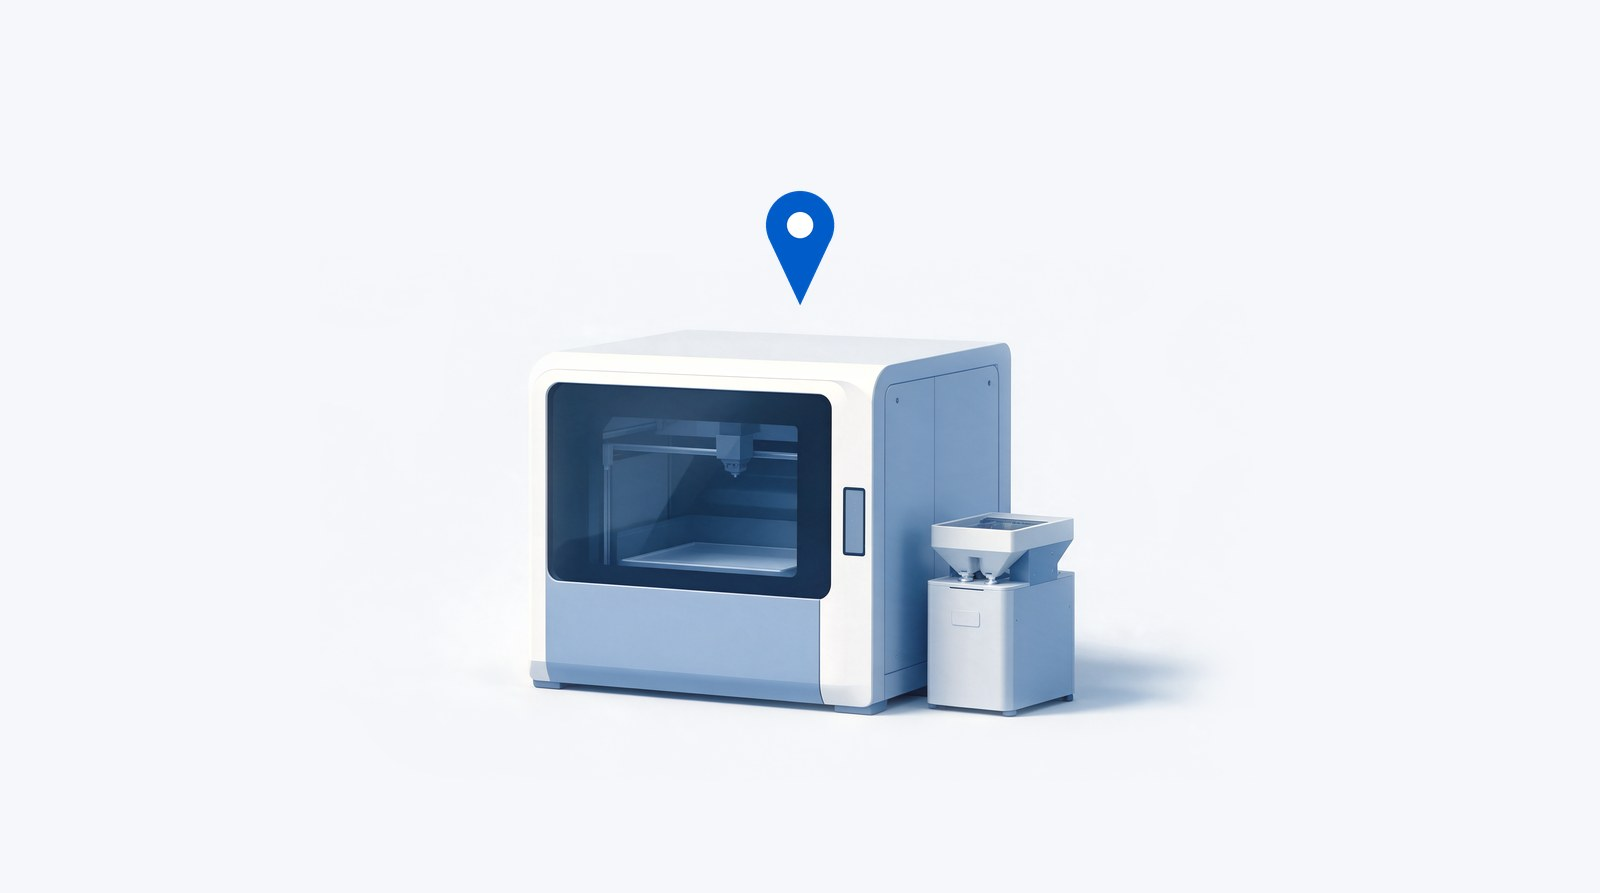
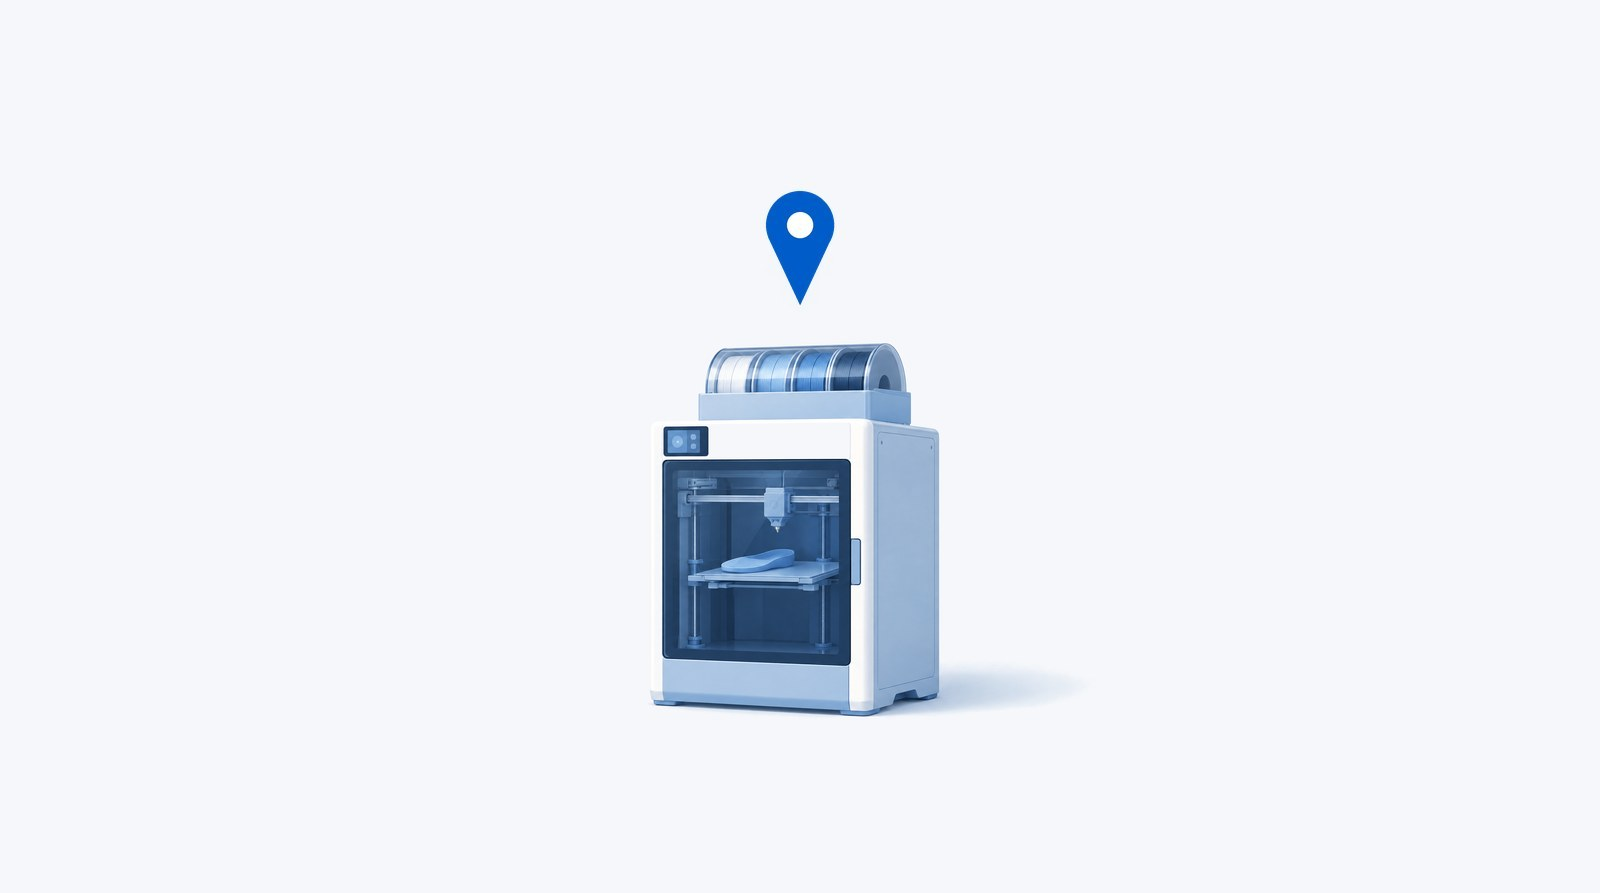
Print Hub pictures: a desktop filament printer making an insole
The Print Hub machine was a powder-bed cabinet with a powder unit beside
it. Will asked for a printer that reads as the filament machines the
hosts actually run: an enclosed upright body, the nozzle and its three
axes visible through the glass, one insole on the bed, the spools on
top and nothing standing beside it.

print-hub, print-find and print-offer are replaced under the same names
in all three image folders (hub, printhub, millhub). The blue pin and
the green node with its arcs are carried over unchanged from the old
door pictures. Two alt texts now describe the new machine.

Changed region(s): [[0.3125, 0.3628, 0.75, 0.8163]]

diff --git a/millhub/index.html b/millhub/index.html
@@ -324,7 +324,7 @@ capacity CTAs collapsed into one door · logo path fixed.
         <span class="kicker">Next door</span>
         <h3>Certified 3D-printing capacity, worldwide: the Global Print Hub <svg width="18" height="18" viewBox="0 0 24 24" fill="none" stroke="currentColor" stroke-width="2.4" aria-hidden="true"><path d="M5 12h14M13 6l6 6-6 6"/></svg></h3>
       </div>
-      <img src="assets/img/print-hub.jpg" alt="Illustration of an enclosed industrial 3D printer with a powder unit beside it" width="1600" height="893" loading="lazy">
+      <img src="assets/img/print-hub.jpg" alt="Illustration of an enclosed desktop 3D printer with filament spools on top, printing an insole" width="1600" height="893" loading="lazy">
     </a>
   </div>
 </section>

diff --git a/hub/index.html b/hub/index.html
@@ -87,7 +87,7 @@ until the scenes are remade with Chris.
     <div class="hub-bands">
       <a class="hub-band" href="https://printhub.nexpoint.co.uk/">
         <div class="hub-band__media">
-          <img src="assets/img/print-hub.jpg" alt="Illustration of an enclosed industrial 3D printer with a powder unit beside it" width="1600" height="893" fetchpriority="high" style="height:auto">
+          <img src="assets/img/print-hub.jpg" alt="Illustration of an enclosed desktop 3D printer with filament spools on top, printing an insole" width="1600" height="893" fetchpriority="high" style="height:auto">
           <span class="status"><span class="live-dot"></span>Live</span>
         </div>
         <div class="hub-band__body">
